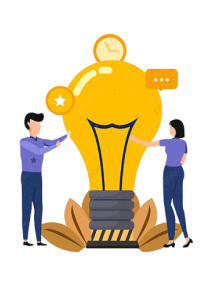
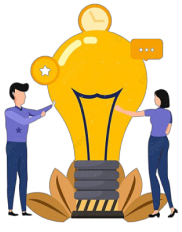
editResponsiveAboutUs

diff --git a/style/AboutStyle.css b/style/AboutStyle.css
@@ -149,6 +149,11 @@
 
 
 /*work on website*/
+#WorkOnWbsite {
+  width: 92%;
+  margin-left: auto;
+  margin-right: auto;
+}
 #WorkOnWbsite .backgroundWork{
   width: 100%;
     max-width: 830px;
@@ -187,6 +192,9 @@
 /*teams member*/
 #OurTeam{
   margin-top: 10rem;
+  width: 92%;
+  margin-left: auto;
+  margin-right: auto;
 }
 #OurTeam .row{
   margin-bottom: 8rem;
@@ -274,9 +282,9 @@
     width:94% !important;
   }
   .lampImage{
-    width: 100px !important;
-    bottom: -80px !important;
-    right: -50px !important;
+    width: 60px !important;
+    bottom: -47px !important;
+    right: -7% !important
   }
 }
 @media (max-width:530px){
